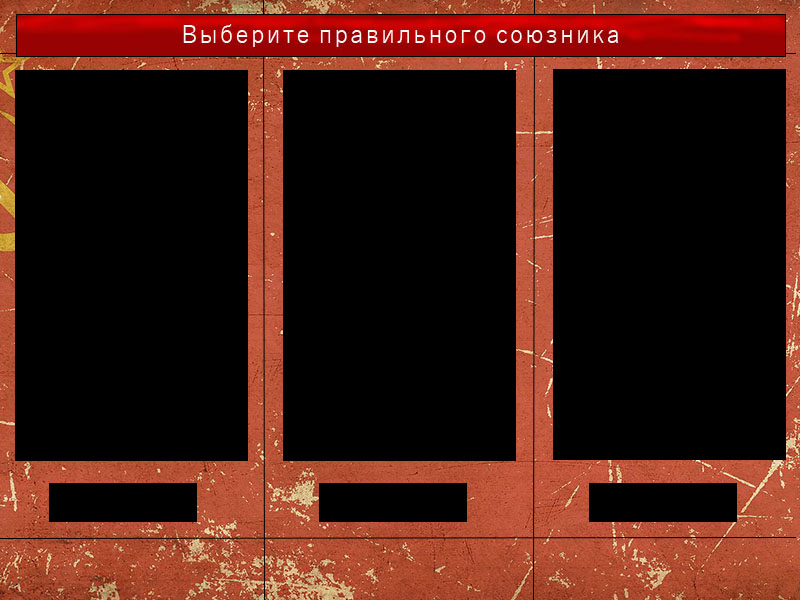
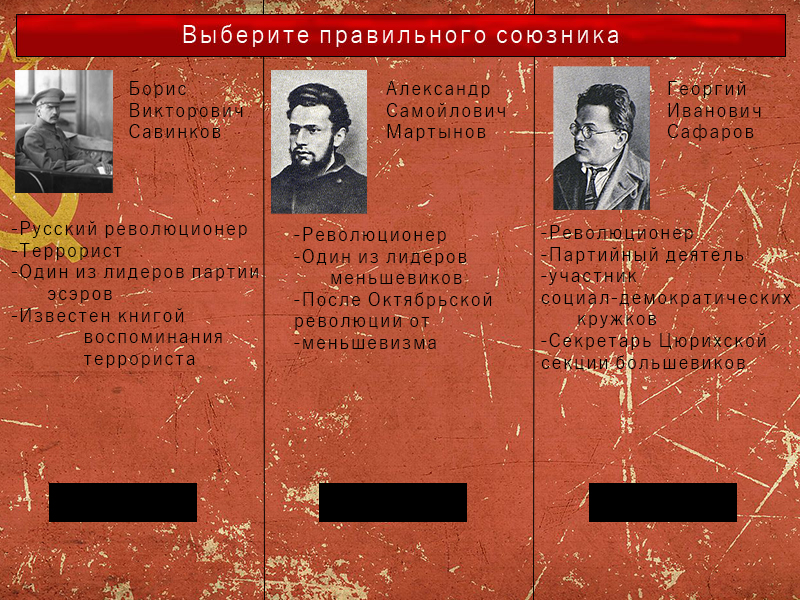
Weekly update

diff --git a/ComradesSelectorScreen.cs b/ComradesSelectorScreen.cs
@@ -1,0 +1,51 @@
+using System;
+using System.Collections.Generic;
+using System.Drawing;
+using System.Linq;
+using System.Windows.Forms;
+
+namespace ulearn_game_YoungRevolutioneerGame
+{
+    public class ComradesSelectorScreen : IScreen
+    {
+        private ComradesSelectorModel model;
+        private Form form;
+        Button[] selectButtons = new Button[3];
+
+        public void Initialize(Form form)
+        {
+            this.form = form;
+            model = new ComradesSelectorModel();
+
+            var selectButtonsLocations = new[] { new Point(50, 482), new Point(320, 482), new Point(590, 482) };
+            for (var i = 0; i < 3; i++)
+            {
+                var j = i;
+                selectButtons[i] = new Button
+                {
+                    Size = new Size(145, 40),
+                    Location = selectButtonsLocations[i],
+                    Image = Properties.Resources.SelectButton,
+                    FlatStyle = FlatStyle.Flat
+                };
+                selectButtons[i].FlatAppearance.BorderSize = 0;
+                selectButtons[i].Click += (o, e) => model.Choose(j);
+            }
+        }
+
+        public void Draw()
+        {
+            form.BackgroundImage = Properties.Resources.ComradesSelectorBg;
+            foreach (var button in selectButtons)
+                form.Controls.Add(button);
+        }
+
+        public void Clear()
+        {
+            form.BackgroundImage = default;
+            foreach (var button in selectButtons)
+                form.Controls.Remove(button);
+        }
+
+    }
+}

diff --git a/ComradesSelectorModel.cs b/ComradesSelectorModel.cs
@@ -1,0 +1,32 @@
+using System;
+using System.Collections.Generic;
+using System.Linq;
+using System.Text;
+using System.Windows.Forms;
+
+namespace ulearn_game_YoungRevolutioneerGame
+{
+    class ComradePerson
+    {
+        public string Name;
+        public string description;
+
+        public double ImposterousnessCoefficient;
+    }
+
+    class ComradesSelectorModel
+    {
+        public void Choose(int num)
+        {
+            MessageBox.Show(num.ToString(), "Вы выбрали чела",
+                MessageBoxButtons.OK,
+                MessageBoxIcon.Information);
+        }
+
+        public ComradePerson[] GetOptions()
+        {
+            throw new NotImplementedException();
+        }
+
+    }
+}

diff --git a/AboutScreen.cs b/AboutScreen.cs
@@ -9,10 +9,10 @@ namespace ulearn_game_YoungRevolutioneerGame
         private static Button backButton = new Button
         {
             Size = new Size(145, 40),
-            Location = new Point(650, 522),
+            Location = new Point(654, 522),
             Image = Properties.Resources.BackButton,
             FlatStyle = FlatStyle.Flat
-    };
+        };
 
         private Form form;
         private IScreen previousScreen;

diff --git a/MainMenu.cs b/MainMenu.cs
@@ -52,10 +52,10 @@ namespace ulearn_game_YoungRevolutioneerGame
 
             newGameButton.Click += (o, e) =>
             {
-                var cs = new ComradesSelector();
-                cs.Initialize(form);
+                var csScreen = new ComradesSelectorScreen();
+                csScreen.Initialize(form);
                 Clear();
-                cs.Draw();
+                csScreen.Draw();
             };
         }
 
